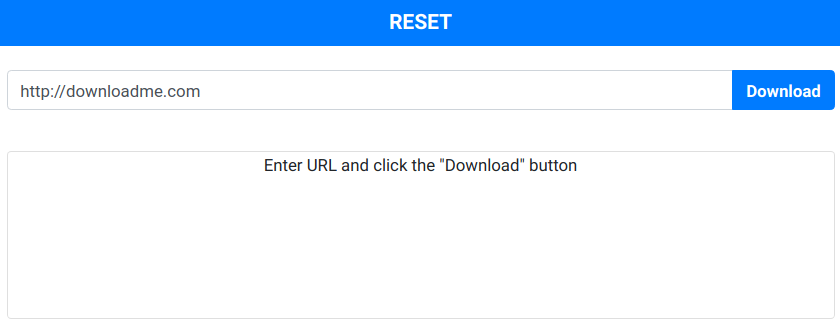
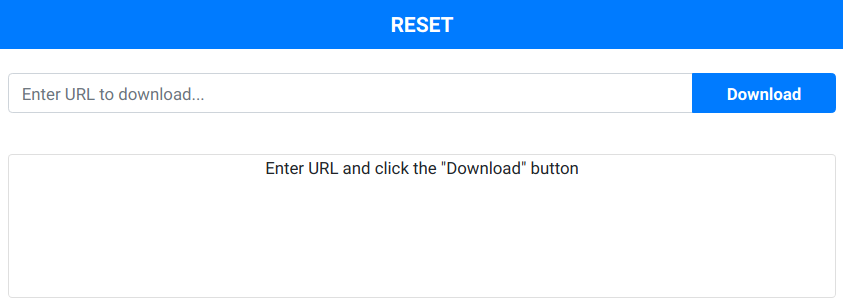
Updated screenshots and README

Changed region(s): [[0.0, 0.2059, 1.0, 0.3824], [0.0, 0.4412, 1.0, 0.9706], [0.0, 0.0294, 1.0, 0.1765]]

diff --git a/README.md b/README.md
@@ -9,3 +9,6 @@ Demo for [celery-progress](https://github.com/czue/celery-progress) Django appli
 
 ### Task completed
 ![success](media/success.png)
+
+### Task failed
+![success](media/error.png)
